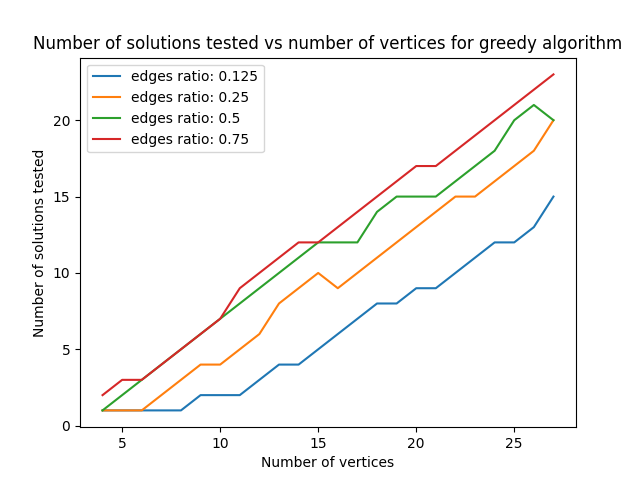
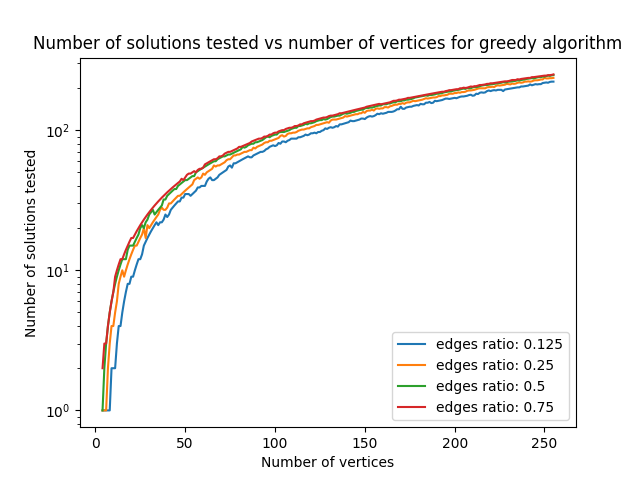
Fix minor issue on greedy plot

diff --git a/src/plot_data.py b/src/plot_data.py
@@ -8,7 +8,7 @@ def plot_number_operations_vs_number_of_vertices(results, name, log=False, save=
     for max_edges in MAXIMUM_NUMBER_EDGES:
         x = []
         y = []
-        for size in range(4, 29):
+        for size in range(4, 256):
             x.append(size)
             y.append(results[max_edges][size].operations)
         if log:
@@ -32,7 +32,7 @@ def plot_time_vs_number_of_vertices(results, name, log=False, save=False, show=F
     for max_edges in MAXIMUM_NUMBER_EDGES:
         x = []
         y = []
-        for size in range(4, 28):
+        for size in range(4, 256):
             x.append(size)
             y.append(results[max_edges][size].time)
         if log:
@@ -55,7 +55,7 @@ def plot_number_of_solutions_tested_vs_graph_size(results, name, log=False, save
     for max_edges in MAXIMUM_NUMBER_EDGES:
         x = []
         y = []
-        for size in range(4, 28):
+        for size in range(4, 256):
             x.append(size)
             y.append(results[max_edges][size].solution_counter)
         if log:
@@ -82,9 +82,9 @@ def main():
     plot_time_vs_number_of_vertices(bruteforce_data, "bruteforce", log=True, save=True)
     plot_number_of_solutions_tested_vs_graph_size(bruteforce_data, "bruteforce", log=True, save=True)
 
-    plot_number_operations_vs_number_of_vertices(greedy_data, "greedy", log=False, show=True)
-    plot_time_vs_number_of_vertices(greedy_data, "greedy", log=False, show=True)
-    plot_number_of_solutions_tested_vs_graph_size(greedy_data, "greedy", log=False, show=True)
+    plot_number_operations_vs_number_of_vertices(greedy_data, "greedy", log=True, save=True)
+    plot_time_vs_number_of_vertices(greedy_data, "greedy", log=True, save=True)
+    plot_number_of_solutions_tested_vs_graph_size(greedy_data, "greedy", log=True, save=True)
 
 
 if __name__ == "__main__":
